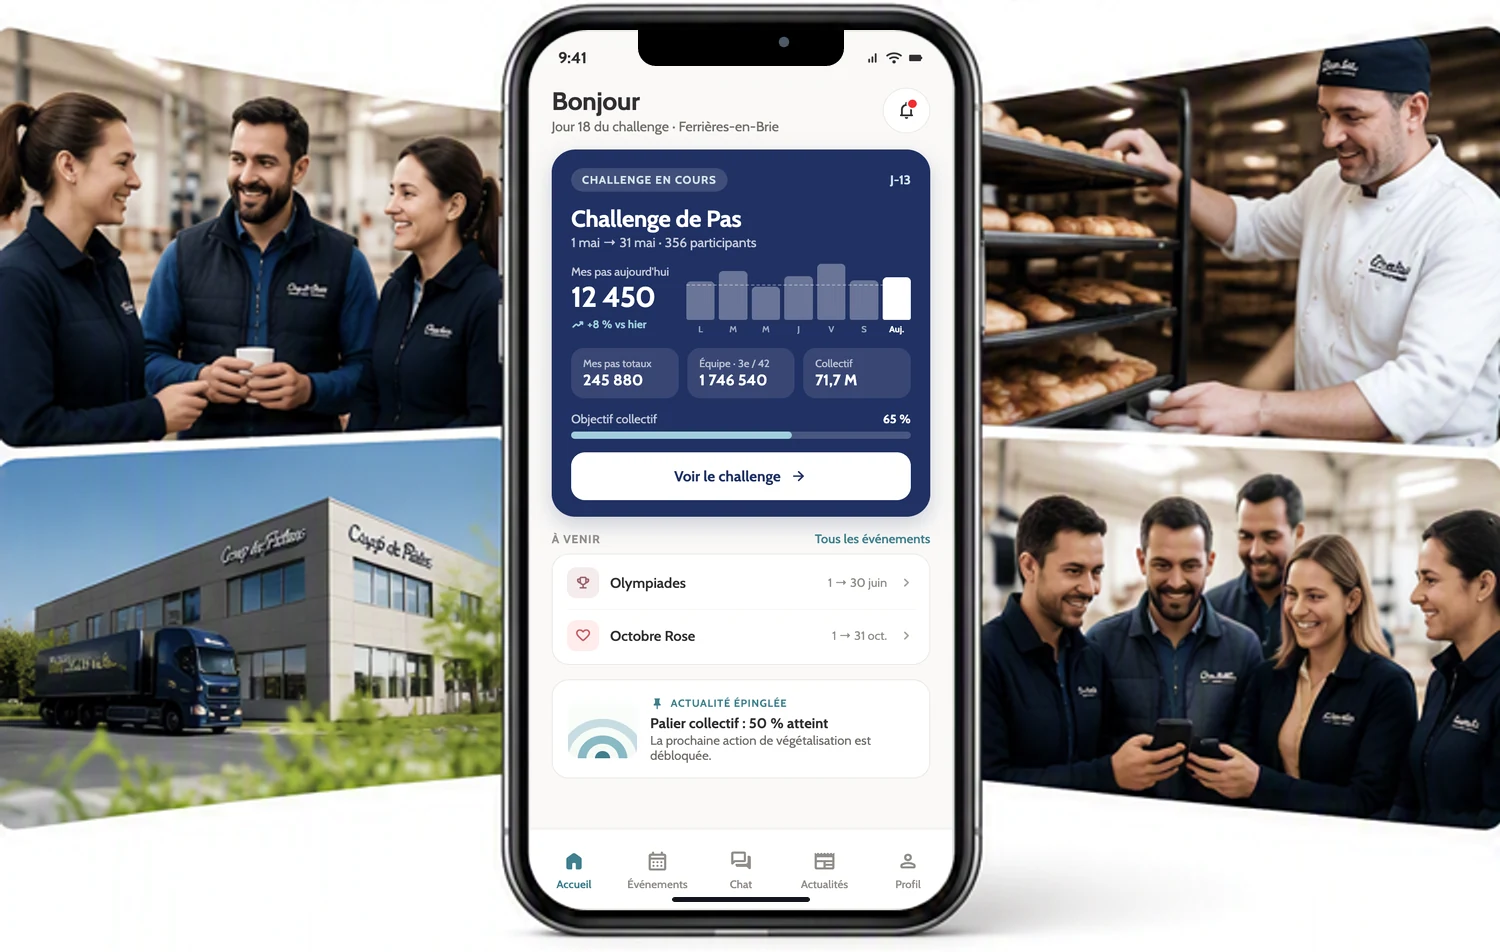
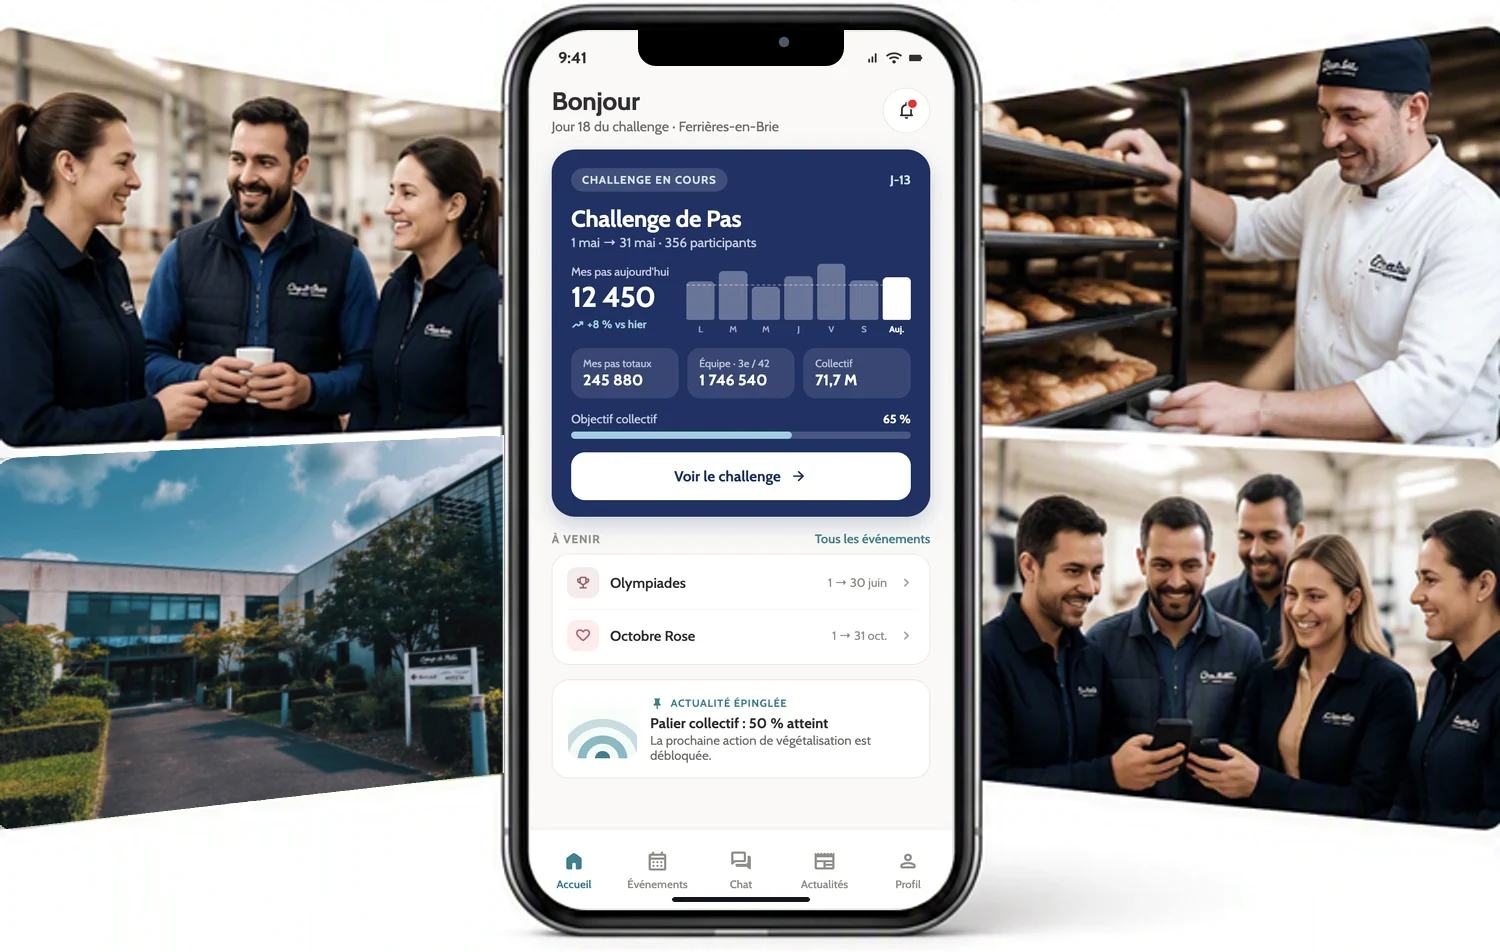
copy(coup-de-pates): client wording and the real premises in the montage (#202)
## Résumé

Trois retours client sur la page `/fr/coup-de-pates-ensemble`, appliqués
tels quels.

1. « mobile pro » écrit en toutes lettres : « Accessible sur mobile
professionnel ou personnel ».
2. « Restez connecté à la vie de l'entreprise, où que vous soyez. »
devient « Partageons ensemble les moments qui font vivre notre
entreprise. » La description de la page portait la même phrase, elle
suit.
3. Le panneau en bas à gauche du montage porte maintenant la vraie photo
des locaux fournie par le client, à la place du bâtiment inventé de la
maquette.

Suite de la [PR
#201](https://github.com/The-Vibe-Company/website/pull/201). Toujours
aucune issue ouverte sur ce repo.

## La photo

![Avant /
après](https://raw.githubusercontent.com/The-Vibe-Company/website/copy-photo-coup-de-pates/screenshots/pr-202/05-photo-avant-apres.png)

Le panneau n'est pas un rectangle : c'est un trapèze en perspective, 186
px de haut sur son bord gauche et 169 px sur son bord droit. Un collage
rectangulaire se serait vu immédiatement. La photo est donc posée par
transformation projective, sur une géométrie mesurée et non estimée :
les bords haut et bas ont été relevés dans 14 colonnes du montage en
ligne puis ajustés aux moindres carrés.

Deuxième difficulté : les angles du panneau sont arrondis et ses bords
anticrénelés, ce que quatre coins ne savent pas décrire. Plutôt que de
deviner un rayon, la nouvelle photo est fondue à zéro partout où le
[…]

Changed region(s): [[0.0, 0.4569, 0.3373, 0.8834]]

diff --git a/src/components/coup-de-pates/EnsembleLanding.tsx b/src/components/coup-de-pates/EnsembleLanding.tsx
@@ -9,7 +9,7 @@ import { ENSEMBLE_STORE_URLS } from "@/lib/coup-de-pates-ensemble";
 // lives here instead of in the site's message catalogues.
 const FACTS = [
   { Icon: Lock, text: "Sécurisée et réservée aux collaborateurs" },
-  { Icon: Smartphone, text: "Accessible sur mobile pro ou personnel" },
+  { Icon: Smartphone, text: "Accessible sur mobile professionnel ou personnel" },
   { Icon: UsersRound, text: "Une seule application pour rester connecté" },
 ];
 
@@ -45,12 +45,12 @@ export function EnsembleLanding({ fontClassName }: { fontClassName: string }) {
         </div>
 
         <p className="cdpe-lead">
-          Restez connecté à la vie de l’entreprise, où que vous soyez.
+          Partageons ensemble les moments qui font vivre notre entreprise.
         </p>
 
         <Image
           src="/images/coup-de-pates-ensemble/app-accueil.webp"
-          alt="L’écran d’accueil de l’application Coup de Pates Ensemble sur un téléphone, entouré de photos de collaborateurs, d’un site logistique et d’un boulanger au travail."
+          alt="L’écran d’accueil de l’application Coup de Pates Ensemble sur un téléphone, entouré de photos de collaborateurs, des locaux de Coup de Pates et d’un boulanger au travail."
           width={1500}
           height={952}
           priority

diff --git a/src/app/[locale]/coup-de-pates-ensemble/ensemble.css b/src/app/[locale]/coup-de-pates-ensemble/ensemble.css
@@ -295,8 +295,33 @@ body:has(.cdpe-page) {
     gap: 0;
   }
 
+  .cdpe-facts li {
+    gap: 0.6rem;
+    padding: 0.3rem 0.55rem;
+  }
+
   .cdpe-facts li + li {
     border-left: 1px solid var(--cdpe-hairline);
+  }
+
+  .cdpe-facts__icon {
+    width: 2.3rem;
+    height: 2.3rem;
+  }
+
+  .cdpe-facts p {
+    max-width: none;
+    font-size: 0.8125rem;
+  }
+}
+
+/* Past the shell's own width, the row reclaims the shell's padding: the three
+   reassurances need every pixel of their column to hold two lines each, and the
+   hairlines separate them without help from the margin. Below this the row would
+   run flush to the screen edge, so it keeps the padding and wraps instead. */
+@media (min-width: 48rem) {
+  .cdpe-facts {
+    margin-inline: -1.25rem;
   }
 }
 

diff --git a/src/app/[locale]/coup-de-pates-ensemble/page.tsx b/src/app/[locale]/coup-de-pates-ensemble/page.tsx
@@ -18,7 +18,7 @@ const montserrat = Montserrat({
 
 const TITLE = "Coup de Pates Ensemble, l’application des collaborateurs";
 const DESCRIPTION =
-  "Téléchargez Coup de Pates Ensemble et restez connecté à la vie de l’entreprise, où que vous soyez.";
+  "Téléchargez Coup de Pates Ensemble et partageons ensemble les moments qui font vivre notre entreprise.";
 
 export const metadata: Metadata = {
   title: { absolute: TITLE },
